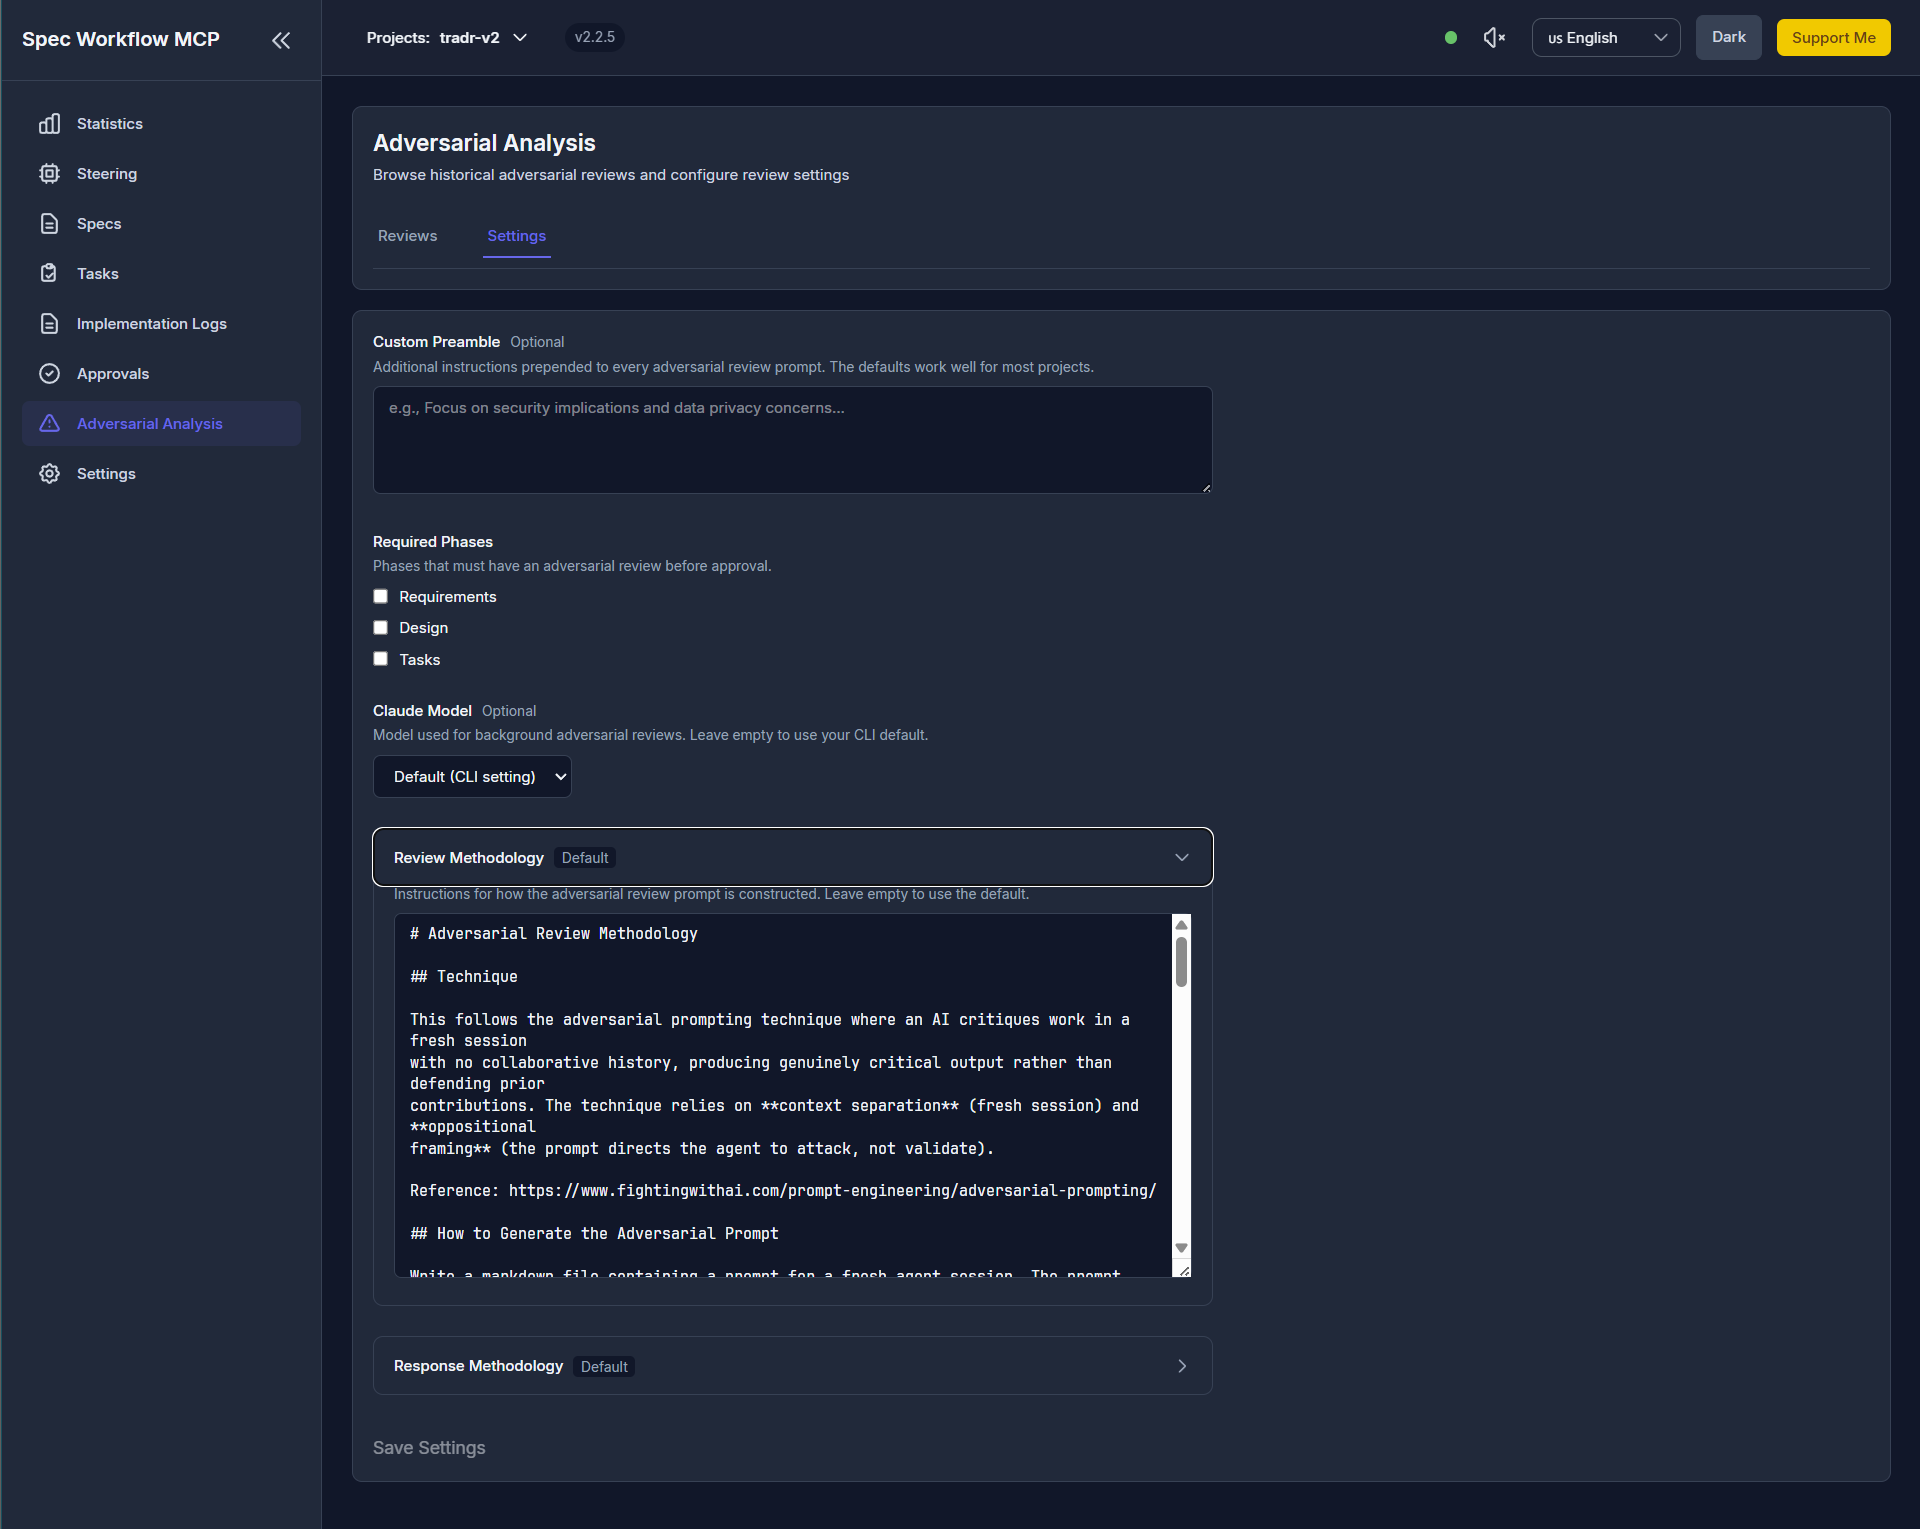
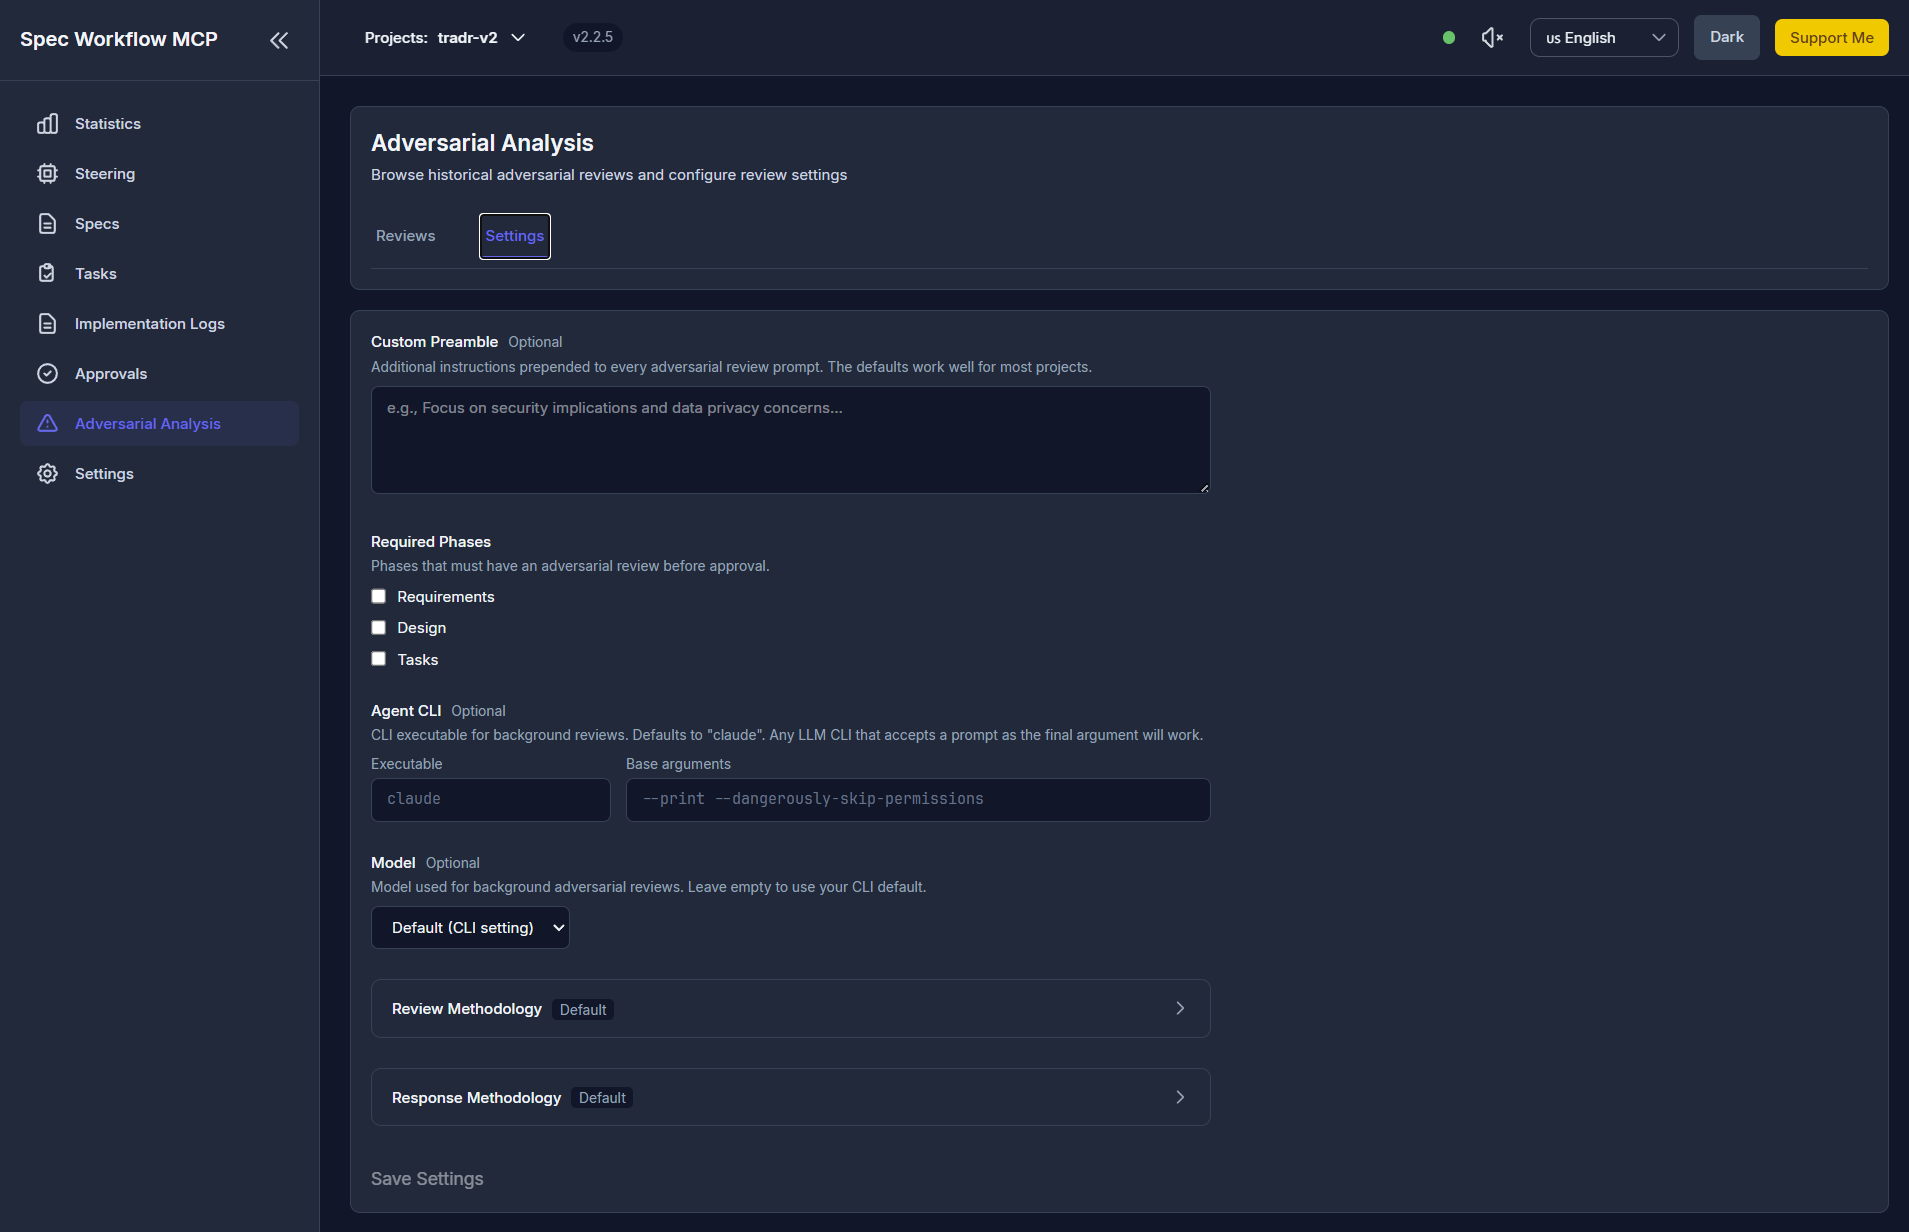
feat: make adversarial review CLI configurable for LLM-agnostic use
The background runner now accepts a configurable CLI executable and
base arguments instead of hardcoding the Claude CLI. Defaults remain
unchanged (claude --print --dangerously-skip-permissions). Settings
UI adds Agent CLI fields above the model selector.

diff --git a/src/dashboard/multi-server.ts b/src/dashboard/multi-server.ts
@@ -756,17 +756,25 @@ export class MultiProjectDashboardServer {
           return reply.code(500).send({ error: result.message || 'Failed to prepare adversarial review' });
         }
 
-        // Read model preference from adversarial settings
+        // Read preferences from adversarial settings
         let model: string | undefined;
+        let cli: string | undefined;
+        let cliArgs: string[] | undefined;
         try {
           const settingsRaw = await readFile(join(project.projectPath, '.spec-workflow', 'adversarial-settings.json'), 'utf-8');
           const settings = JSON.parse(settingsRaw);
           if (settings.model && typeof settings.model === 'string') {
             model = settings.model;
           }
+          if (settings.cli && typeof settings.cli === 'string') {
+            cli = settings.cli;
+          }
+          if (Array.isArray(settings.cliArgs) && settings.cliArgs.length > 0) {
+            cliArgs = settings.cliArgs;
+          }
         } catch { /* no settings or parse error — use default */ }
 
-        // Spawn background Claude subagent to perform the review
+        // Spawn background agent to perform the review
         const jobId = await this.adversarialRunner.run({
           projectId,
           specName: approval.categoryName,
@@ -780,6 +788,8 @@ export class MultiProjectDashboardServer {
           priorPhaseDocs: result.data.priorPhaseDocs || [],
           version: result.data.version,
           model,
+          cli,
+          cliArgs,
         });
 
         // Set approval to needs-revision
@@ -893,13 +903,21 @@ export class MultiProjectDashboardServer {
           promptExists = true;
         } catch { /* doesn't exist */ }
 
-        // Read model preference from adversarial settings
+        // Read preferences from adversarial settings
         let retryModel: string | undefined;
+        let retryCli: string | undefined;
+        let retryCliArgs: string[] | undefined;
         try {
           const settingsRaw = await readFile(join(project.projectPath, '.spec-workflow', 'adversarial-settings.json'), 'utf-8');
           const settings = JSON.parse(settingsRaw);
           if (settings.model && typeof settings.model === 'string') {
             retryModel = settings.model;
+          }
+          if (settings.cli && typeof settings.cli === 'string') {
+            retryCli = settings.cli;
+          }
+          if (Array.isArray(settings.cliArgs) && settings.cliArgs.length > 0) {
+            retryCliArgs = settings.cliArgs;
           }
         } catch { /* use default */ }
 
@@ -918,6 +936,8 @@ export class MultiProjectDashboardServer {
           version: result.data.version,
           skipPromptGeneration: promptExists,
           model: retryModel,
+          cli: retryCli,
+          cliArgs: retryCliArgs,
         });
 
         // Update annotations with the new job ID and paths
@@ -1556,6 +1576,8 @@ export class MultiProjectDashboardServer {
         reviewMethodology: '',
         responseMethodology: '',
         model: '',
+        cli: '',
+        cliArgs: [],
       };
 
       let saved = {};
@@ -1598,6 +1620,8 @@ export class MultiProjectDashboardServer {
         reviewMethodology: typeof body.reviewMethodology === 'string' ? body.reviewMethodology : '',
         responseMethodology: typeof body.responseMethodology === 'string' ? body.responseMethodology : '',
         model: typeof body.model === 'string' ? body.model : '',
+        cli: typeof body.cli === 'string' ? body.cli : '',
+        cliArgs: Array.isArray(body.cliArgs) ? body.cliArgs.filter((a: any) => typeof a === 'string') : [],
       };
 
       const settingsDir = join(project.projectPath, '.spec-workflow');

diff --git a/src/dashboard/adversarial-runner.ts b/src/dashboard/adversarial-runner.ts
@@ -31,7 +31,9 @@ interface RunOptions {
   priorPhaseDocs: string[];
   version: number;
   skipPromptGeneration?: boolean; // Skip step 1 if prompt file already exists
-  model?: string; // Claude model alias or full name (e.g. 'sonnet', 'opus', 'claude-sonnet-4-6')
+  model?: string; // Model alias or full name (e.g. 'sonnet', 'opus', 'claude-sonnet-4-6')
+  cli?: string; // CLI executable (default: 'claude')
+  cliArgs?: string[]; // Base CLI args (default: ['--print', '--dangerously-skip-permissions'])
 }
 
 const JOB_TIMEOUT_MS = 10 * 60 * 1000; // 10 minutes per step
@@ -114,7 +116,7 @@ export class AdversarialRunner extends EventEmitter {
         this.emit('job-update', { ...job });
 
         const promptGenerationInstructions = this.buildPromptGenerationInstructions(opts);
-        await this.runClaude(jobId, opts.projectPath, promptGenerationInstructions, opts.model);
+        await this.runAgent(jobId, opts.projectPath, promptGenerationInstructions, opts);
 
         // Verify the prompt file was written
         try {
@@ -129,7 +131,7 @@ export class AdversarialRunner extends EventEmitter {
       this.emit('job-update', { ...job });
 
       const reviewInstructions = `Read and execute the instructions in ${opts.promptOutputPath}`;
-      await this.runClaude(jobId, opts.projectPath, reviewInstructions, opts.model);
+      await this.runAgent(jobId, opts.projectPath, reviewInstructions, opts);
 
       // Verify the analysis file was written
       try {
@@ -176,15 +178,18 @@ export class AdversarialRunner extends EventEmitter {
     ].join('\n');
   }
 
-  private runClaude(jobId: string, cwd: string, prompt: string, model?: string): Promise<void> {
+  private runAgent(jobId: string, cwd: string, prompt: string, opts: RunOptions): Promise<void> {
+    const cli = opts.cli || 'claude';
+    const baseArgs = opts.cliArgs || ['--print', '--dangerously-skip-permissions'];
+
     return new Promise((resolve, reject) => {
-      const args = ['--print', '--dangerously-skip-permissions'];
-      if (model) {
-        args.push('--model', model);
+      const args = [...baseArgs];
+      if (opts.model) {
+        args.push('--model', opts.model);
       }
       args.push(prompt);
 
-      const child = spawn('claude', args, {
+      const child = spawn(cli, args, {
         cwd,
         stdio: ['ignore', 'pipe', 'pipe'],
         env: { ...process.env },
@@ -195,7 +200,7 @@ export class AdversarialRunner extends EventEmitter {
       // Set timeout
       const timeout = setTimeout(() => {
         child.kill('SIGTERM');
-        reject(new Error('Claude process timed out after 10 minutes'));
+        reject(new Error(`Agent process timed out after 10 minutes`));
       }, JOB_TIMEOUT_MS);
       this.timeouts.set(jobId, timeout);
 
@@ -212,7 +217,7 @@ export class AdversarialRunner extends EventEmitter {
         if (code === 0) {
           resolve();
         } else {
-          reject(new Error(`Claude process exited with code ${code}${stderr ? `: ${stderr.slice(0, 500)}` : ''}`));
+          reject(new Error(`Agent process exited with code ${code}${stderr ? `: ${stderr.slice(0, 500)}` : ''}`));
         }
       });
 
@@ -222,7 +227,7 @@ export class AdversarialRunner extends EventEmitter {
         this.processes.delete(jobId);
 
         if ((err as any).code === 'ENOENT') {
-          reject(new Error('Claude CLI not found. Ensure "claude" is installed and available in PATH.'));
+          reject(new Error(`CLI "${cli}" not found. Ensure it is installed and available in PATH.`));
         } else {
           reject(err);
         }

diff --git a/src/dashboard_frontend/src/modules/pages/AdversarialPage.tsx b/src/dashboard_frontend/src/modules/pages/AdversarialPage.tsx
@@ -29,6 +29,8 @@ interface AdversarialSettings {
   reviewMethodology: string;
   responseMethodology: string;
   model: string;
+  cli: string;
+  cliArgs: string[];
 }
 
 const DEFAULT_SETTINGS: AdversarialSettings = {
@@ -37,6 +39,8 @@ const DEFAULT_SETTINGS: AdversarialSettings = {
   reviewMethodology: '',
   responseMethodology: '',
   model: '',
+  cli: '',
+  cliArgs: [],
 };
 
 function Content() {
@@ -351,10 +355,52 @@ function Content() {
                 </div>
               </div>
 
+              {/* Agent CLI Configuration */}
+              <div>
+                <label className="block text-sm font-medium text-[var(--text-primary)] mb-1">
+                  {t('adversarialPage.settings.cliLabel', 'Agent CLI')}
+                  <span className="ml-2 text-xs font-normal text-[var(--text-muted)]">
+                    {t('adversarialPage.settings.cliOptional', 'Optional')}
+                  </span>
+                </label>
+                <p className="text-xs text-[var(--text-muted)] mb-2">
+                  {t('adversarialPage.settings.cliHelp', 'CLI executable for background reviews. Defaults to "claude". Any LLM CLI that accepts a prompt as the final argument will work.')}
+                </p>
+                <div className="flex flex-col sm:flex-row gap-3">
+                  <div className="flex-1 sm:flex-initial">
+                    <label className="block text-xs text-[var(--text-muted)] mb-1">
+                      {t('adversarialPage.settings.cliExecutableLabel', 'Executable')}
+                    </label>
+                    <input
+                      type="text"
+                      value={settings.cli || ''}
+                      onChange={(e) => setSettings(s => ({ ...s, cli: e.target.value }))}
+                      placeholder="claude"
+                      className="w-full sm:w-48 px-3 py-2 rounded-md border border-[var(--border-default)] bg-[var(--surface-base)] text-[var(--text-primary)] text-sm font-mono placeholder:text-[var(--text-faint)]"
+                    />
+                  </div>
+                  <div className="flex-1">
+                    <label className="block text-xs text-[var(--text-muted)] mb-1">
+                      {t('adversarialPage.settings.cliArgsLabel', 'Base arguments')}
+                    </label>
+                    <input
+                      type="text"
+                      value={(settings.cliArgs || []).join(' ')}
+                      onChange={(e) => {
+                        const val = e.target.value.trim();
+                        setSettings(s => ({ ...s, cliArgs: val ? val.split(/\s+/) : [] }));
+                      }}
+                      placeholder="--print --dangerously-skip-permissions"
+                      className="w-full px-3 py-2 rounded-md border border-[var(--border-default)] bg-[var(--surface-base)] text-[var(--text-primary)] text-sm font-mono placeholder:text-[var(--text-faint)]"
+                    />
+                  </div>
+                </div>
+              </div>
+
               {/* Model Selection */}
               <div>
                 <label className="block text-sm font-medium text-[var(--text-primary)] mb-1">
-                  {t('adversarialPage.settings.modelLabel', 'Claude Model')}
+                  {t('adversarialPage.settings.modelLabel', 'Model')}
                   <span className="ml-2 text-xs font-normal text-[var(--text-muted)]">
                     {t('adversarialPage.settings.modelOptional', 'Optional')}
                   </span>

diff --git a/pr-203-description.md b/pr-203-description.md
@@ -1,7 +1,3 @@
-**Title:** feat: adversarial review integration with automated background execution
-
----
-
 ## Summary
 
 Adds adversarial (oppositional) review capabilities to the spec workflow. Users can trigger a review from the dashboard, which automatically spawns background Claude CLI subagents to generate and execute the review — no manual copy-paste required. Progress is shown inline on the approval card, and completed reviews persist with next-step guidance.
@@ -19,12 +15,13 @@ Spec documents benefit from critical review before approval, but self-review ten
 - **`adversarial-response`**: Finds analysis by version (or latest) and returns structured evaluation instructions (assess/reason/propose format). Accepts optional `version` parameter for precise targeting
 
 ### Background Execution (`adversarial-runner.ts`)
-- Spawns two sequential `claude --print --dangerously-skip-permissions` processes:
+- Spawns two sequential CLI processes (defaults to `claude --print --dangerously-skip-permissions`):
   1. **Prompt generation**: Reads spec + context, writes a tailored adversarial prompt file
   2. **Review execution**: Fresh-context agent reads and executes the prompt, writes analysis
 - Context separation is preserved — the reviewing agent has no collaborative history
 - Job tracking with status transitions: `pending` → `generating-prompt` → `running-review` → `completed`/`failed`
 - 10-minute timeout per step, max 2 concurrent reviews per project, duplicate detection
+- Configurable CLI executable and arguments via settings — any LLM CLI that accepts a prompt as its final argument works (defaults to Claude CLI)
 - Configurable model selection via settings (defaults to CLI default)
 - WebSocket broadcast on every status change
 
@@ -39,7 +36,7 @@ Spec documents benefit from critical review before approval, but self-review ten
 
 ### Dashboard — Adversarial Analysis Page (`/adversarial`)
 - **Reviews tab**: Browse analyses by spec, phase, and version with rendered markdown
-- **Settings tab**: Optional preamble, required-phase checkboxes, model selector (Opus/Sonnet/Haiku or CLI default), and methodology editors with reset-to-default
+- **Settings tab**: Optional preamble, required-phase checkboxes, agent CLI configuration (executable + base args), model selector, and methodology editors with reset-to-default
 
 ### Pending Revisions Section (Approvals page)
 - Approvals with `needs-revision` status appear in a separate section below pending items
@@ -51,6 +48,41 @@ Spec documents benefit from critical review before approval, but self-review ten
 - `GET .../adversarial/jobs/:jobId` — job status
 - `POST .../adversarial/jobs/:jobId/cancel` — cancel a running job
 - `POST .../approvals/:id/adversarial-retry` — retry/resume a failed or incomplete review
+
+## Screenshots
+
+### Approvals Page — Review Lifecycle
+
+**Pending approval with "Request Adversarial Review" button**
+PLACEHOLDER_1
+
+**Step 1: Generating prompt (spinner active, step 2 grayed out)**
+PLACEHOLDER_2
+
+**Step 2: Running review (step 1 checkmark, step 2 spinner)**
+PLACEHOLDER_3
+
+**Completed: green banner with next-step guidance**
+PLACEHOLDER_4
+
+**Failed: red banner with "Retry" and "Dismiss" options**
+PLACEHOLDER_5
+
+**Incomplete after restart: amber warning with "Resume review" button**
+PLACEHOLDER_6
+
+### Adversarial Analysis Page
+
+**Reviews tab: spec dropdown, phase/version list, rendered analysis**
+PLACEHOLDER_7
+
+**Settings tab: preamble, required phases, model selector, methodology editors**
+PLACEHOLDER_8
+
+### Pending Revisions Section
+
+**Needs-revision approvals with adversarial progress/completion banners**
+PLACEHOLDER_9
 
 ## How to Review
 

diff --git a/docs/CONFIGURATION.md b/docs/CONFIGURATION.md
@@ -501,7 +501,9 @@ Adversarial review settings are stored per-project in `.spec-workflow/adversaria
   "preamble": "",
   "reviewMethodology": "",
   "responseMethodology": "",
-  "model": "sonnet"
+  "model": "sonnet",
+  "cli": "",
+  "cliArgs": []
 }
 ```
 
@@ -513,7 +515,23 @@ Adversarial review settings are stored per-project in `.spec-workflow/adversaria
 | `preamble` | string | "" | Additional context prepended to review prompts |
 | `reviewMethodology` | string | Built-in | Custom methodology for generating adversarial critiques |
 | `responseMethodology` | string | Built-in | Custom methodology for responding to critiques |
-| `model` | string | "sonnet" | Claude model for reviews: "sonnet", "opus", "haiku", or a full model ID |
+| `model` | string | "" | Model for reviews: "sonnet", "opus", "haiku", or a full model ID. Empty uses CLI default |
+| `cli` | string | "claude" | CLI executable for background reviews. Any LLM CLI that accepts a prompt as the final argument |
+| `cliArgs` | string[] | `["--print", "--dangerously-skip-permissions"]` | Base arguments passed to the CLI before the prompt |
+
+### Agent CLI
+
+The dashboard's one-click adversarial review spawns a background CLI process to run the review. By default it uses the Claude CLI (`claude --print --dangerously-skip-permissions`), but you can configure any LLM CLI that accepts a prompt as its final argument. The CLI must be able to read files from the project directory and write markdown output.
+
+Example for a different CLI:
+```json
+{
+  "cli": "my-llm-cli",
+  "cliArgs": ["--non-interactive", "--output-format", "markdown"]
+}
+```
+
+Note: The MCP tools (`adversarial-review`, `adversarial-response`) are LLM-agnostic and work with any agent. The CLI setting only affects background reviews triggered from the dashboard.
 
 ### Required Phases
 

diff --git a/docs/WORKFLOW.md b/docs/WORKFLOW.md
@@ -209,8 +209,9 @@ Each review is versioned (v1, v2, v3...) so you can run multiple rounds and comp
 On the **Adversarial Analysis** page in the dashboard:
 
 - **Required Phases** - Enforce adversarial review before approval for specific phases
+- **Agent CLI** - Configure which LLM CLI runs background reviews (defaults to Claude CLI, but any compatible CLI works)
+- **Model** - Choose which model runs the review (e.g., Opus for depth, Sonnet for speed)
 - **Methodology** - Customize the review and response methodologies
-- **Model** - Choose which Claude model runs the review (e.g., Opus for depth, Sonnet for speed)
 
 ## Phase 4: Implementation
 

diff --git a/docs/INTERFACES.md b/docs/INTERFACES.md
@@ -135,7 +135,8 @@ Browse and configure adversarial reviews:
 - **Settings Tab**
   - Preamble text for review context
   - Required phases toggle (enforce review before approval)
-  - Model selection (choose Claude model for reviews)
+  - Agent CLI configuration (executable and base arguments for background reviews)
+  - Model selection (choose model for reviews)
   - Methodology editors for review and response prompts
 
 ![Adversarial Analysis page — Settings tab](screenshots/09-adversarial-settings-tab.png)
